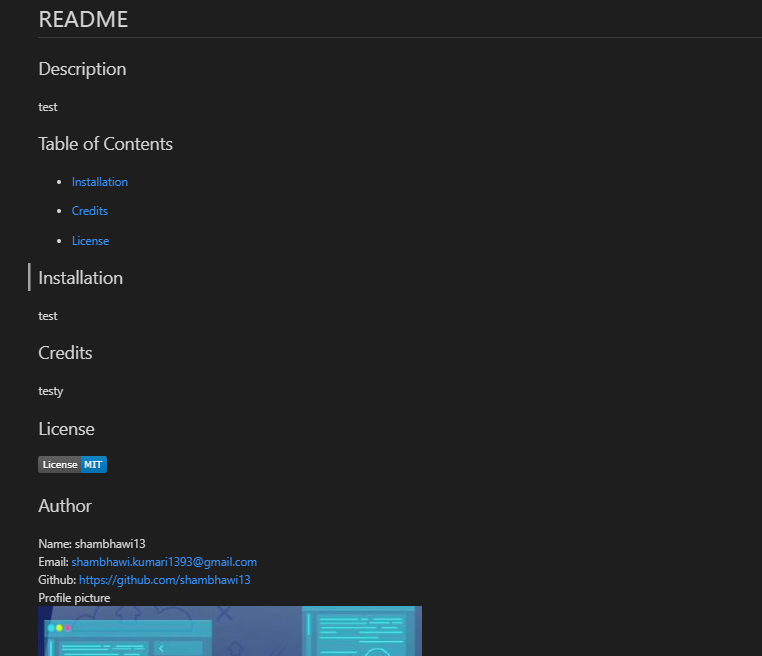
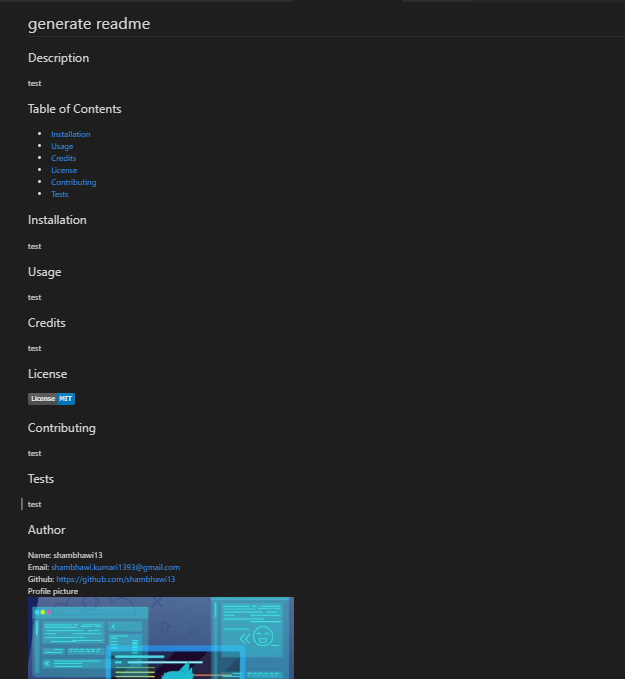
added new gif for clarity

Changed region(s): [[0.0304, 0.3659, 0.5776, 1.0], [0.0304, 0.1524, 0.2432, 0.3659], [0.0304, 0.0, 0.2432, 0.122]]

diff --git a/generated.md b/generated.md
@@ -1,33 +1,33 @@
-# README
+# generate readme
 
 ## Description
 test
 
 ## Table of Contents 
 * [Installation](#installation)
-
+* [Usage](#usage)
 * [Credits](#credits)
 * [License](#license)
-
-
+* [Contributing](#contributing)
+* [Tests](#Tests)
 
 ## Installation
 test
 
-
-
+## Usage
+test
 
 ## Credits
-testy
+test
 
 ## License
 [![MIT](https://img.shields.io/badge/License-MIT-blue.svg)](https://lbesson.mit-license.org/)
 
+## Contributing
+test
 
-
-
-
-
+## Tests
+test
 
 ## Author
 Name: shambhawi13 <br/> 

diff --git a/README.md b/README.md
@@ -16,7 +16,7 @@ This is a node application that generates readme just by providing set of questi
 ```
 Here is how the application works:
 ```
-![generated readme](https://media.giphy.com/media/d7a4kFxQdeQDe6vLTt/giphy.gif)
+![generated readme](./Assets/readme-final.gif)
 
 ```
 Final Result
